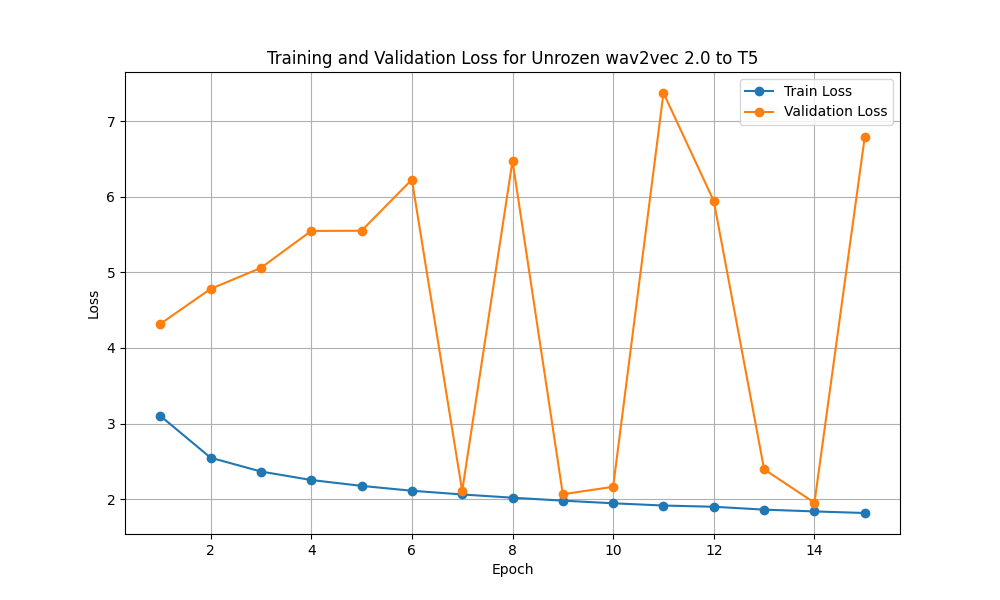
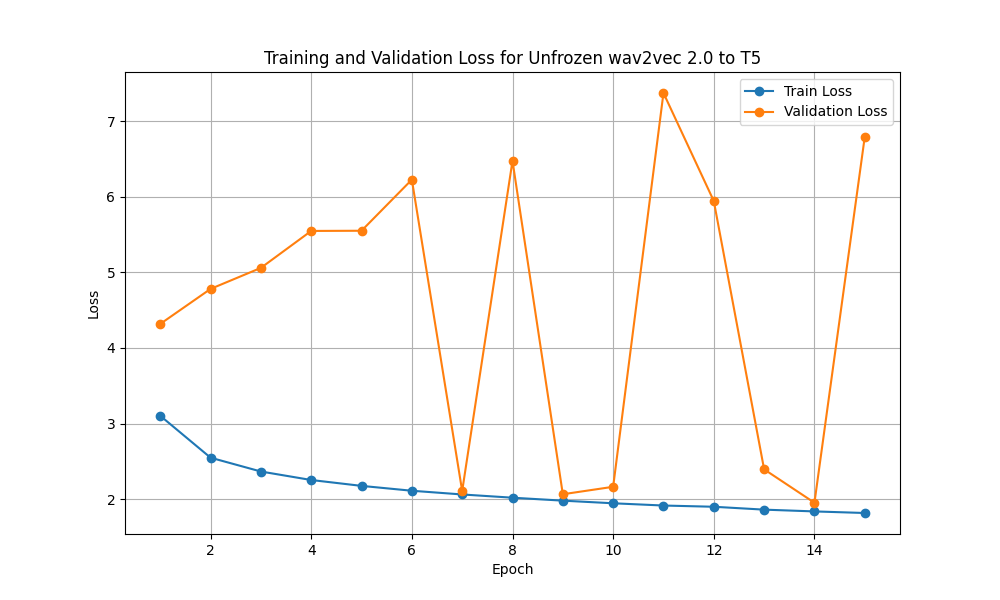
fixing typos on plot titles

Changed region(s): [[0.248, 0.06, 0.775, 0.12]]

diff --git a/clap-to-t5/infer_all.py b/clap-to-t5/infer_all.py
@@ -32,10 +32,7 @@ def load_model_checkpoint(model_name, epoch, frozen):
 
     t5_model = T5ForConditionalGeneration.from_pretrained(local_path + "/t5").to(DEVICE)
     t5_tokenizer = T5Tokenizer.from_pretrained(local_path + "/t5")
-    if frozen:
-        clap_model = AutoModel.from_pretrained(local_path + "/clap").to(DEVICE)
-    else:
-        clap_model = ClapAudioModelWithProjection.from_pretrained(local_path + "/clap").to(DEVICE)
+    clap_model = ClapAudioModelWithProjection.from_pretrained(local_path + "/clap").to(DEVICE)
     processor = AutoProcessor.from_pretrained(local_path + "/clap")
 
     delete_local_copy(local_path)
@@ -70,11 +67,11 @@ def infer(t5_model, t5_tokenizer, clap_model, processor, audio_paths, frozen, ba
 
         with torch.no_grad():
             # Pass batch inputs through the clap model
-            if frozen:
-                clap_outputs = clap_model.get_audio_features(batch_inputs)
-            else:
-                outputs = clap_model(batch_inputs)
-                clap_outputs = outputs.audio_embeds
+            # if frozen:
+            #     clap_outputs = clap_model.get_audio_features(batch_inputs)
+            # else:
+            outputs = clap_model(batch_inputs)
+            clap_outputs = outputs.audio_embeds
 
             # Generate captions
             generated_ids = t5_model.generate(inputs_embeds=clap_outputs.unsqueeze(1), max_new_tokens=MAX_TOKENS)
@@ -100,12 +97,13 @@ def main():
     # Load test metadata
     if args.dataset == "val":
         metadata = pd.read_csv(val_data_path)
+        output_file = f"generated_captions_{args.frozen}_e{args.epoch}_{args.dataset}.pkl"
     elif args.dataset == "train":
         metadata = pd.read_csv(train_data_path)
+        output_file = f"generated_captions_{args.frozen}_e{args.epoch}_{args.dataset}.pkl"
     else:
         metadata = pd.read_csv(test_data_path)
-    
-    output_file = f"generated_captions_{args.frozen}_e{args.epoch}_{args.dataset}.pkl"
+        output_file = f"generated_captions_{args.frozen}_e{args.epoch}.pkl"
     
     epoch = args.epoch
     print(f"Processing epoch {epoch}...")

diff --git a/plot_loss.py b/plot_loss.py
@@ -72,7 +72,7 @@ save_path = "plots/" + model_name + '_loss_plot.png'
 plot_losses(model_name, plot_title, save_path=save_path)
 
 model_name = "fine_tuned_wav2vec_t5_unfrozen" 
-plot_title = "Unrozen wav2vec 2.0 to T5"
+plot_title = "Unfrozen wav2vec 2.0 to T5"
 save_path = "plots/" + model_name + '_loss_plot.png'
 plot_losses(model_name, plot_title, save_path=save_path)
 
@@ -82,7 +82,7 @@ save_path = "plots/" + model_name + '_loss_plot.png'
 plot_losses(model_name, plot_title, save_path=save_path)
 
 model_name = "fine_tuned_mert_pro_t5_unfrozen" 
-plot_title = "Ufnrozen Mert to T5"
+plot_title = "Unfrozen Mert to T5"
 save_path = "plots/" + model_name + '_loss_plot.png'
 plot_losses(model_name, plot_title, save_path=save_path)
 

diff --git a/mert_with_processor/infer_all.py b/mert_with_processor/infer_all.py
@@ -108,12 +108,13 @@ def main():
         # Load test metadata
     if args.dataset == "val":
         metadata = pd.read_csv(val_data_path)
+        output_file = f"generated_captions_{args.frozen}_e{args.epoch}_{args.dataset}.pkl"
     elif args.dataset == "train":
         metadata = pd.read_csv(train_data_path)
+        output_file = f"generated_captions_{args.frozen}_e{args.epoch}_{args.dataset}.pkl"
     else:
         metadata = pd.read_csv(test_data_path)
-    
-    output_file = f"generated_captions_{args.frozen}_e{args.epoch}_{args.dataset}.pkl"
+        output_file = f"generated_captions_{args.frozen}_e{args.epoch}.pkl"
     
     epoch = args.epoch
     print(f"Processing epoch {epoch}...")

diff --git a/wav2vec-to-t5/infer_all.py b/wav2vec-to-t5/infer_all.py
@@ -101,12 +101,13 @@ def main():
     # Load test metadata
     if args.dataset == "val":
         metadata = pd.read_csv(val_data_path)
+        output_file = f"generated_captions_{args.frozen}_e{args.epoch}_{args.dataset}.pkl"
     elif args.dataset == "train":
         metadata = pd.read_csv(train_data_path)
+        output_file = f"generated_captions_{args.frozen}_e{args.epoch}_{args.dataset}.pkl"
     else:
         metadata = pd.read_csv(test_data_path)
-    
-    output_file = f"generated_captions_{args.frozen}_e{args.epoch}_{args.dataset}.pkl"
+        output_file = f"generated_captions_{args.frozen}_e{args.epoch}.pkl"
 
     epoch = args.epoch
     print(f"Processing epoch {epoch}...")
